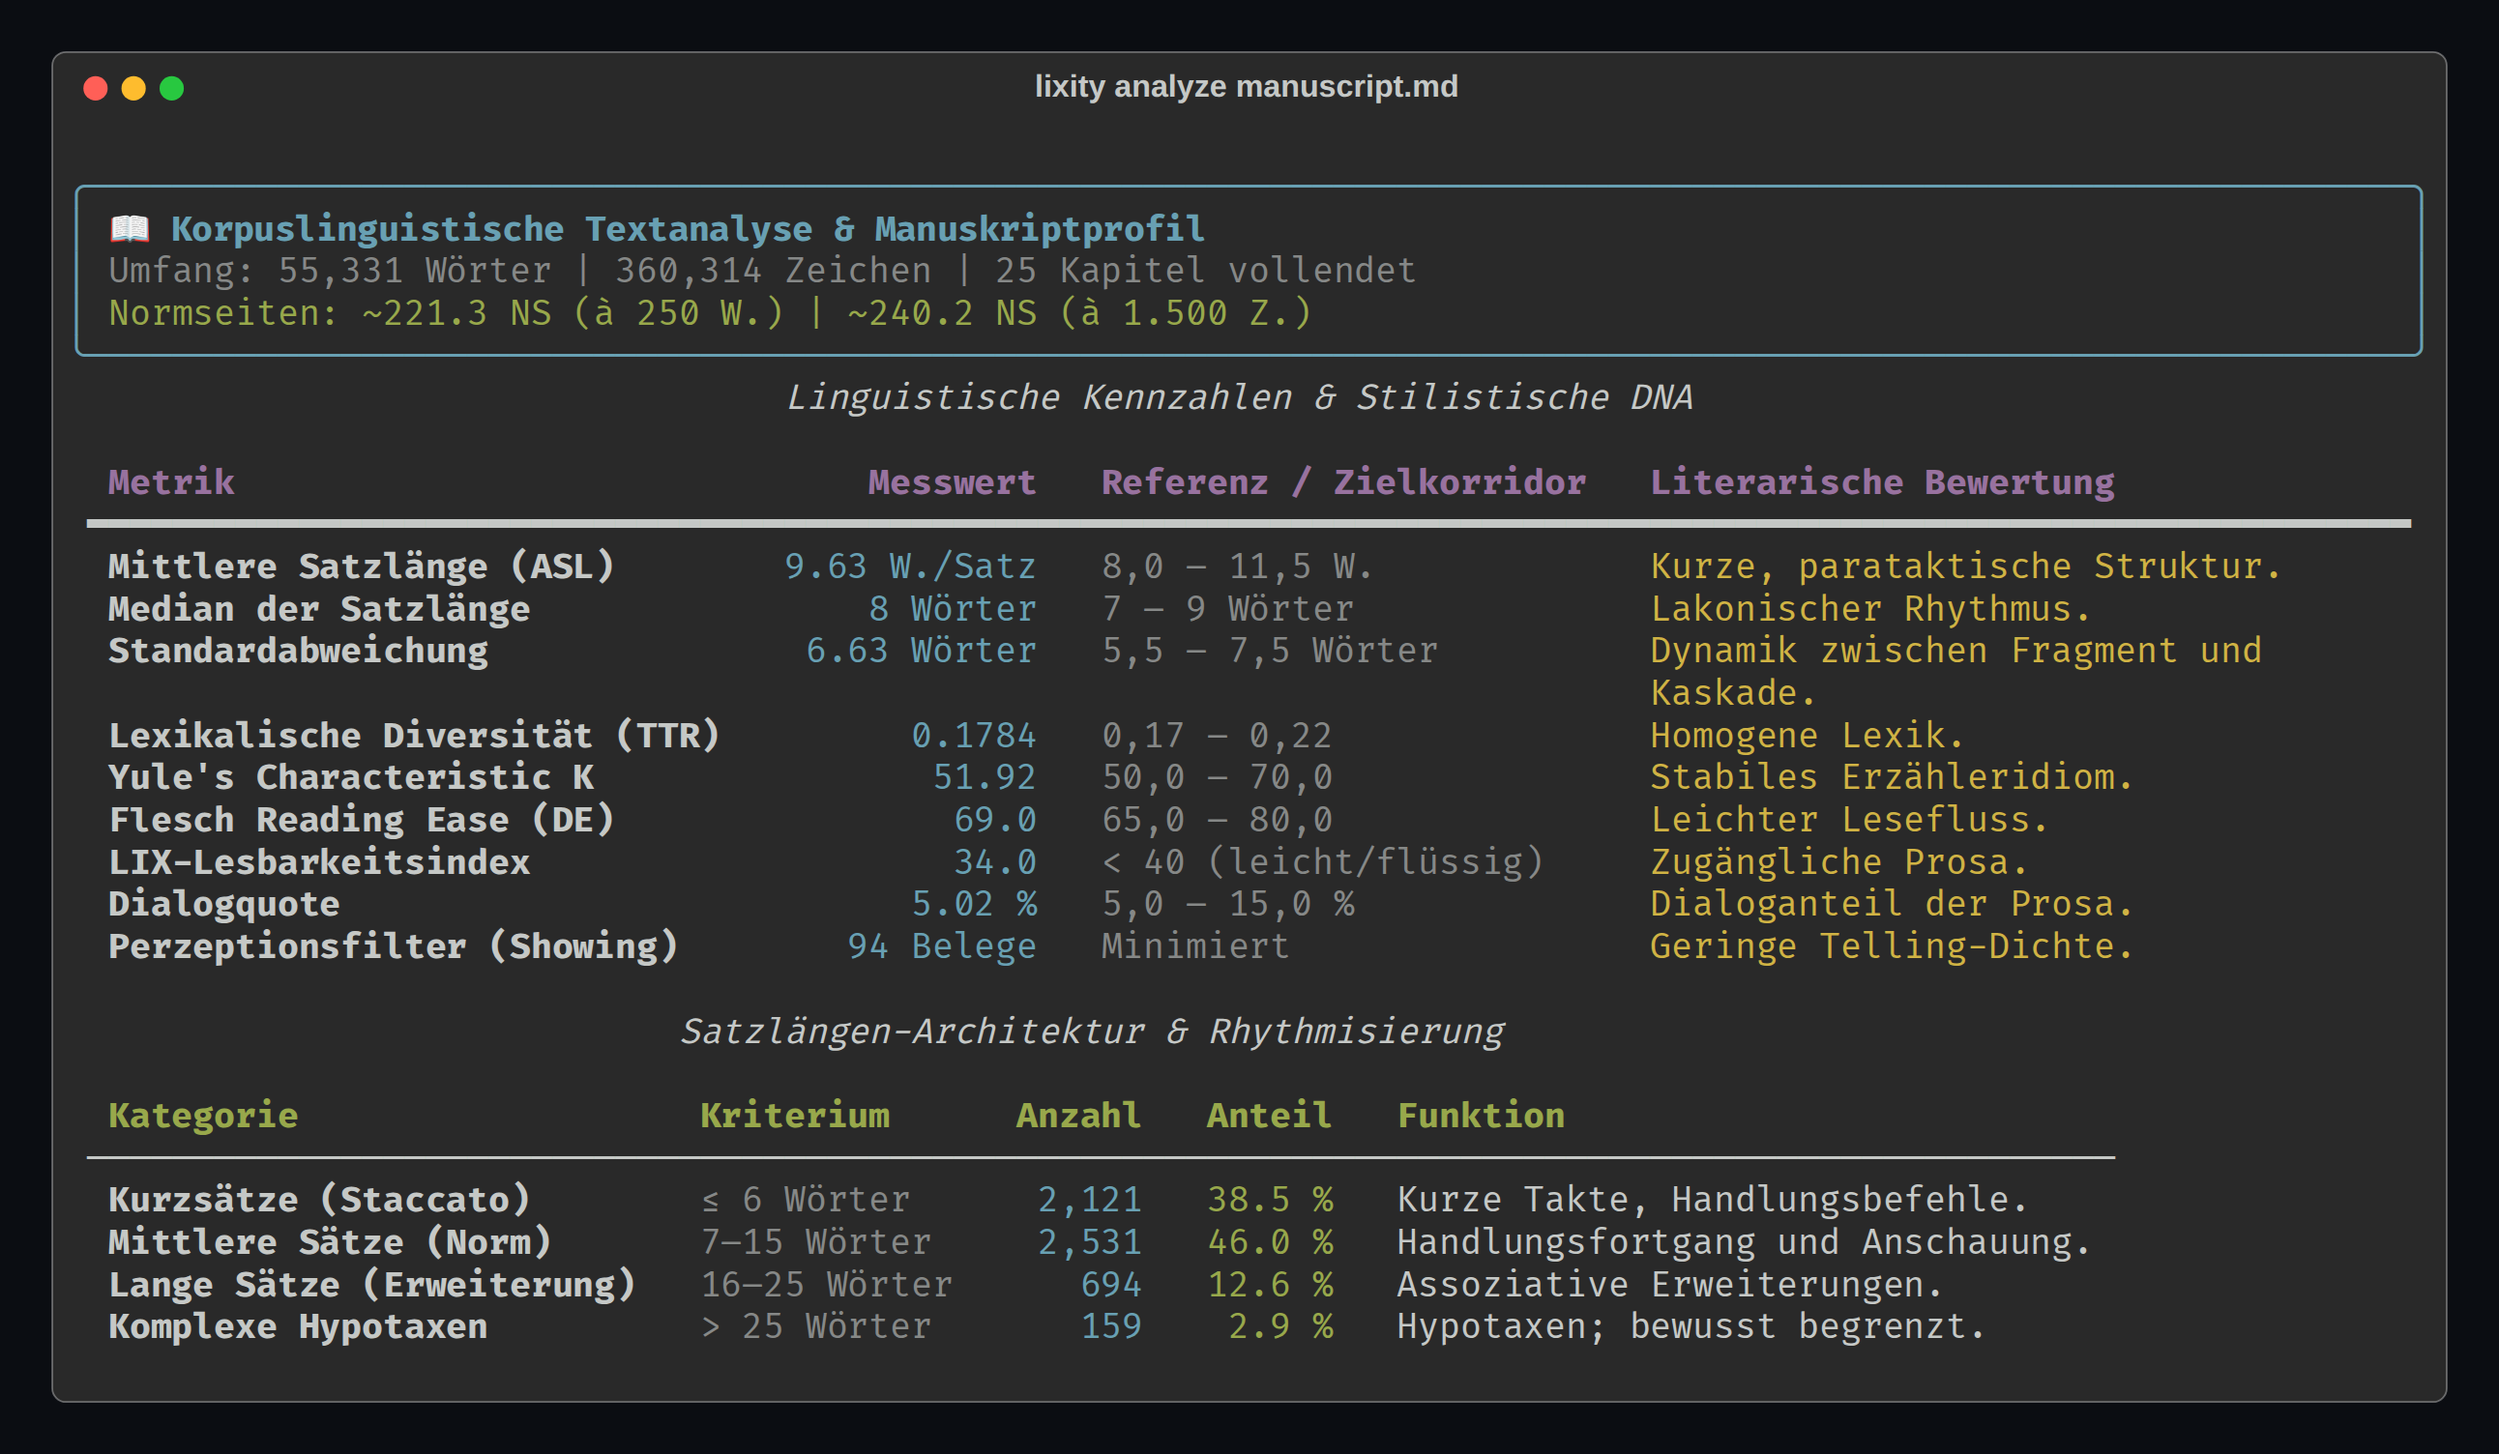
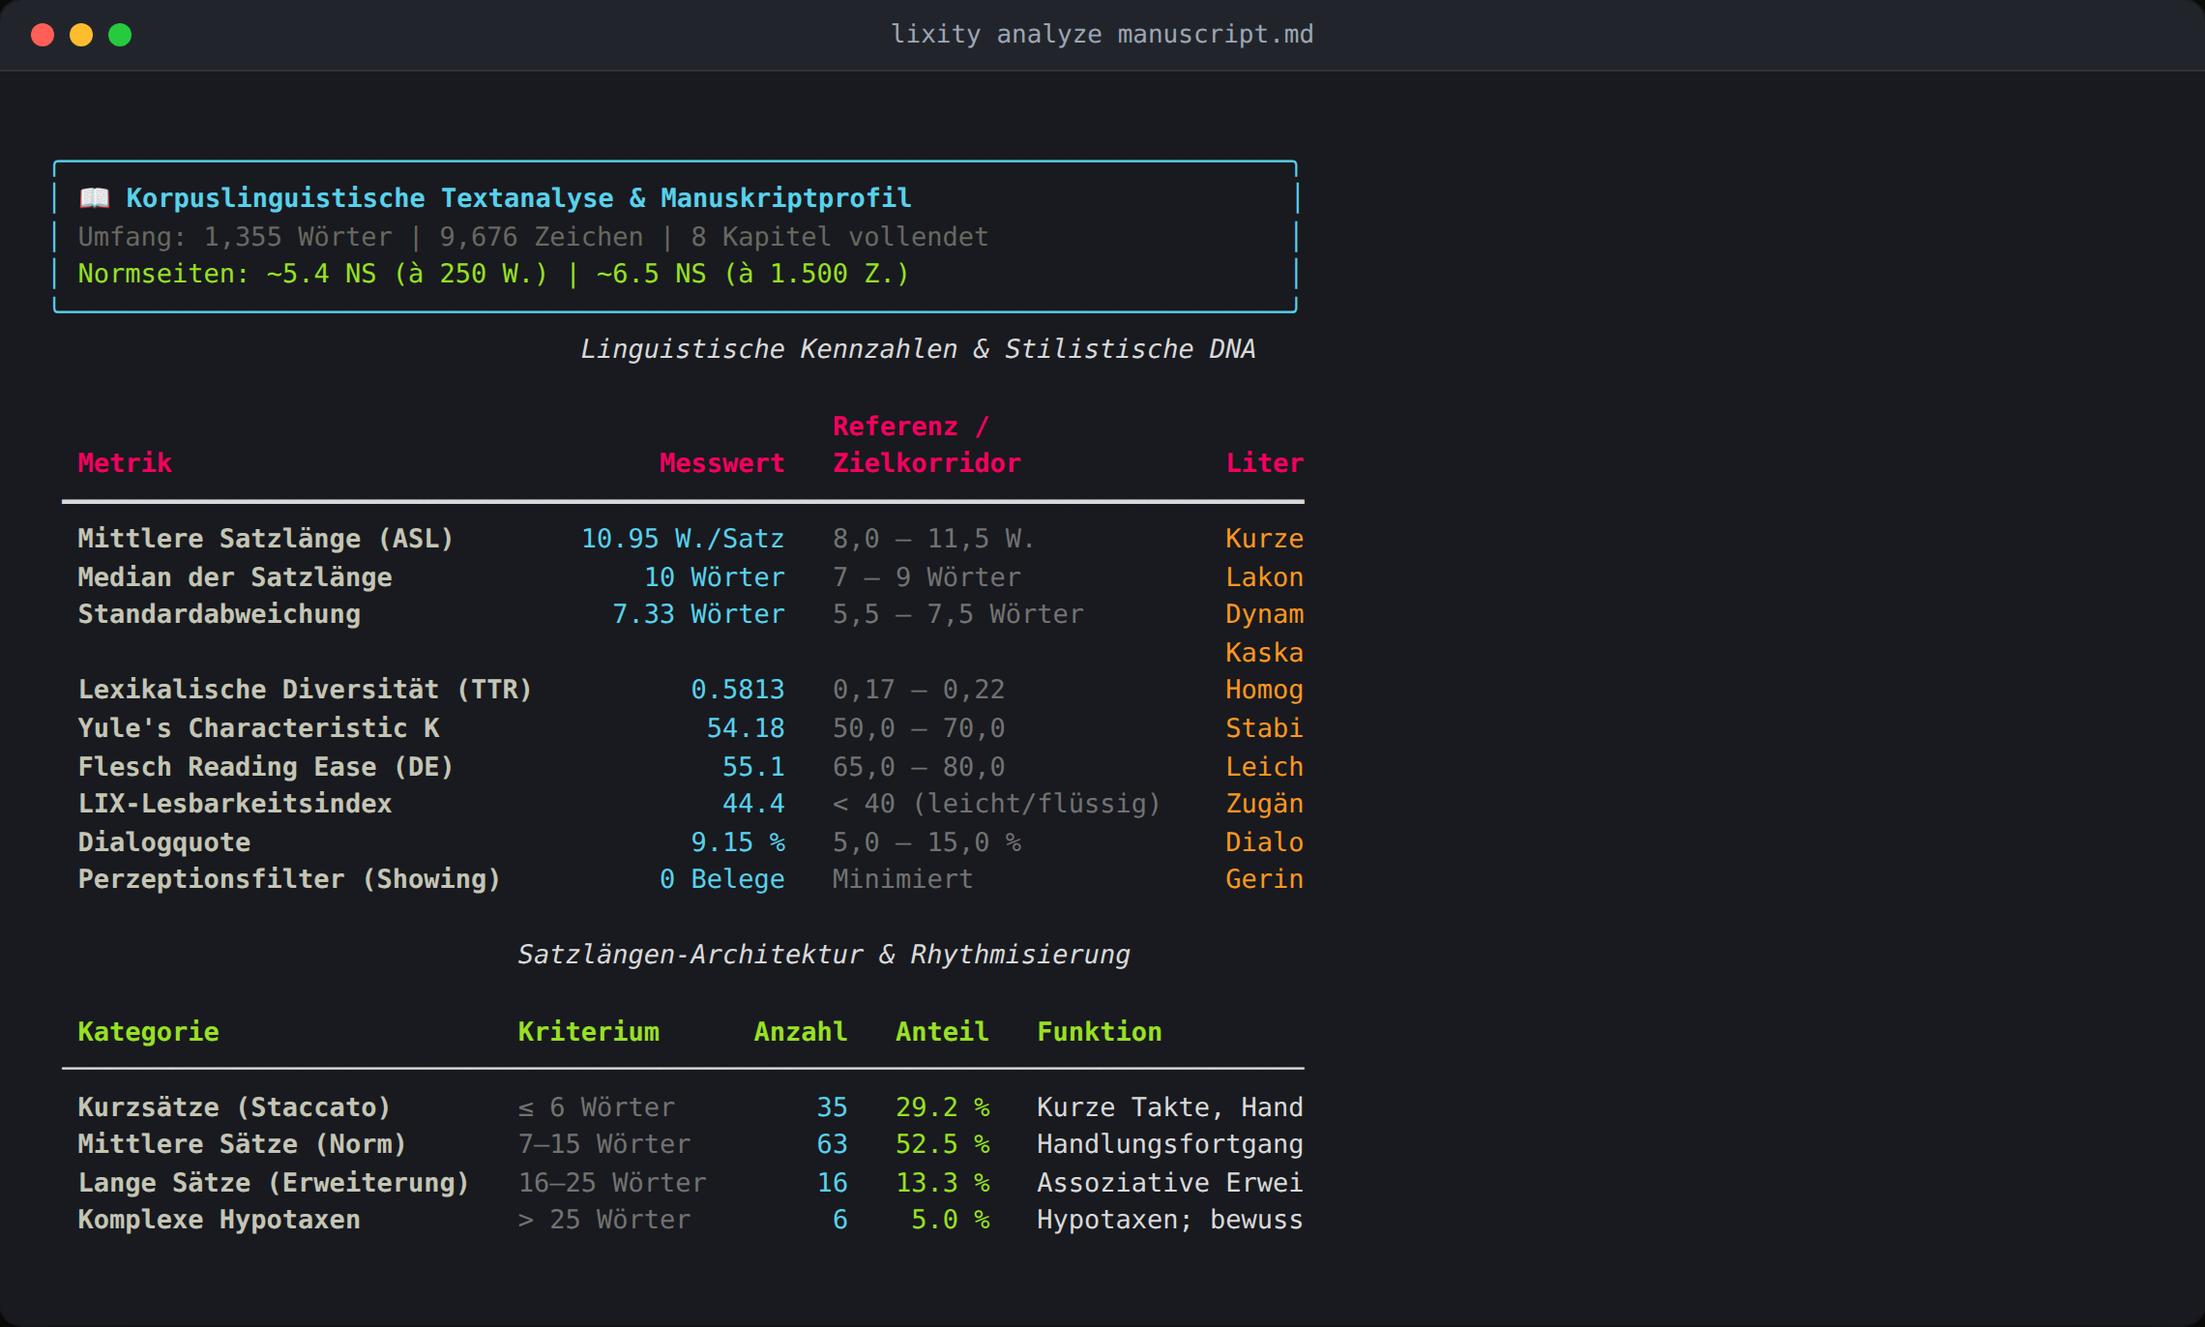
docs & screenshots: sharpen product positioning, add screenshot gallery to GH Pages, fix stray backslash prefix

diff --git a/docs/index.html b/docs/index.html
@@ -1,4 +1,3 @@
-\
 <!DOCTYPE html>
 <html lang="en">
 <head>
@@ -15,9 +14,11 @@
 <meta property="og:title" content="Lixity – Quantitative Text Linguistics &amp; Stylometry for Literary Manuscripts"/>
 <meta property="og:description" content="Self-calibrating style passports, length-invariant lexical diversity, tense profiles, and readability metrics for literary manuscripts – pure Python, offline, 7 languages."/>
 <meta property="og:url" content="https://mfahsold.github.io/lixity/"/>
-<meta name="twitter:card" content="summary"/>
+<meta property="og:image" content="https://mfahsold.github.io/lixity/screenshots/dashboard-light.png"/>
+<meta name="twitter:card" content="summary_large_image"/>
 <meta name="twitter:title" content="Lixity – Quantitative Text Linguistics &amp; Stylometry"/>
 <meta name="twitter:description" content="Self-calibrating style passports, tense profiles, and length-invariant lexical diversity for literary manuscripts."/>
+<meta name="twitter:image" content="https://mfahsold.github.io/lixity/screenshots/dashboard-light.png"/>
 <script type="application/ld+json">
 {
   "@context": "https://schema.org",
@@ -128,6 +129,48 @@ table { width: 100%; border-collapse: collapse; font-size: .9rem; text-align: le
 th, td { padding: .65rem .85rem; border-bottom: 1px solid var(--line); }
 th { font-weight: 600; color: var(--fg); background: var(--accent-light); }
 td:first-child { font-weight: 600; }
+figure.shot {
+  margin: 1.4rem 0;
+  background: var(--surface);
+  border: 1px solid var(--line);
+  border-radius: var(--radius);
+  overflow: hidden;
+  box-shadow: 0 2px 10px rgba(0,0,0,.05);
+}
+figure.shot img {
+  display: block;
+  width: 100%;
+  height: auto;
+  border-bottom: 1px solid var(--line);
+}
+figure.shot figcaption {
+  padding: .6rem 1rem;
+  font-size: .82rem;
+  color: var(--muted);
+}
+.shot-grid {
+  display: grid;
+  grid-template-columns: repeat(auto-fit, minmax(20rem, 1fr));
+  gap: 1rem;
+  margin: 1.2rem 0;
+}
+.shot-grid figure.shot { margin: 0; }
+.theme-note { font-size: .8rem; color: var(--muted); margin: .4rem 0 0; }
+.hero-actions { display: flex; flex-wrap: wrap; gap: .7rem; margin: 1.4rem 0 0; }
+.btn {
+  display: inline-block;
+  padding: .55rem 1.1rem;
+  border-radius: 999px;
+  font-size: .88rem;
+  font-weight: 600;
+  text-decoration: none;
+  border: 1px solid var(--line);
+  background: var(--surface);
+  color: var(--fg);
+}
+.btn:hover { text-decoration: none; border-color: var(--accent); color: var(--accent); }
+.btn.primary { background: var(--accent); border-color: var(--accent); color: #fff; }
+.btn.primary:hover { color: #fff; opacity: .92; }
 details {
   border-bottom: 1px solid var(--line);
   padding: .75rem 0;
@@ -157,7 +200,13 @@ footer {
 <body>
 <main>
   <h1>Lixity</h1>
-  <p class="sub">Quantitative text linguistics, length-invariant stylometry, and a self-calibrating style passport for literary manuscripts. Pure Python, offline, deterministic, seven languages.</p>
+  <p class="sub">An offline text-linguistics engine that measures <em>how a literary manuscript reads</em> &ndash; sentence rhythm, lexical diversity, tense continuity, register signals &ndash; and flags only the passages where a chapter departs from its own established voice.</p>
+
+  <div class="hero-actions">
+    <a class="btn primary" href="https://github.com/mfahsold/lixity">View on GitHub</a>
+    <a class="btn" href="https://github.com/mfahsold/lixity/blob/main/docs/USAGE.md">Usage Guide</a>
+    <a class="btn" href="https://github.com/mfahsold/lixity#quick-start--cli-reference">Quick Start</a>
+  </div>
 
   <div class="pill-row">
     <span>Self-Calibrating Norms</span>
@@ -173,13 +222,40 @@ footer {
     <span>Zero Cloud Dependencies</span>
   </div>
 
-  <div class="card">
-    <h2>Installation</h2>
-    <pre>pip install git+https://github.com/mfahsold/lixity.git</pre>
-    <p class="sub" style="font-size:.85rem; margin:.6rem 0 0;">Requires Python 3.10+; lightweight dependencies: <code>pydantic</code>, <code>rich</code>, <code>orjson</code>.</p>
+  <h2>What It Looks Like</h2>
+  <figure class="shot">
+    <img src="screenshots/dashboard-light.png" alt="Lixity interactive HTML dashboard showing KPI tiles, chapter style map, and tense continuity panels" width="2880" height="2240" loading="eager"/>
+    <figcaption>Interactive single-file HTML dashboard &ndash; KPI overview, chapter map, tense continuity and style panels. Fully self-contained, no external assets.</figcaption>
+  </figure>
+  <div class="shot-grid">
+    <figure class="shot">
+      <img src="screenshots/dashboard-heatmap.png" alt="Diverging z-score heatmap of chapter style deviations" width="2304" height="946" loading="lazy"/>
+      <figcaption>z* deviation heatmap &ndash; significant departures from the manuscript&rsquo;s own house style.</figcaption>
+    </figure>
+    <figure class="shot">
+      <img src="screenshots/dashboard-dimensions.png" alt="Latent style dimension cards with variance and loadings" width="2304" height="786" loading="lazy"/>
+      <figcaption>Unsupervised style dimensions (Spearman &rho; + Jacobi eigendecomposition).</figcaption>
+    </figure>
+    <figure class="shot">
+      <img src="screenshots/dashboard-markers.png" alt="Editor work marker table with status badges" width="2304" height="524" loading="lazy"/>
+      <figcaption>Editor-visible work markers with deterministic content-hash IDs.</figcaption>
+    </figure>
+    <figure class="shot">
+      <img src="screenshots/dashboard-dark.png" alt="Lixity dashboard in dark mode" width="2880" height="2240" loading="lazy"/>
+      <figcaption>Same dashboard in dark mode &ndash; follows the reader&rsquo;s system preference.</figcaption>
+    </figure>
+    <figure class="shot">
+      <img src="screenshots/cli-analyze.png" alt="Lixity CLI analyze command with Rich terminal report" width="2280" height="1372" loading="lazy"/>
+      <figcaption><code>lixity analyze</code> &ndash; Rich terminal report with corpus KPIs.</figcaption>
+    </figure>
+    <figure class="shot">
+      <img src="screenshots/cli-style.png" alt="Lixity CLI style passport output" width="2280" height="1920" loading="lazy"/>
+      <figcaption><code>lixity style</code> &ndash; self-calibrating style passport with bands, z*, FDR.</figcaption>
+    </figure>
   </div>
 
   <h2>Why Lixity?</h2>
+  <p class="sub" style="margin-bottom:1rem;">Unlike grammar checkers or general NLP stacks, Lixity never measures against external norms. The manuscript itself establishes the baseline &ndash; deviations are highlighted only when a chapter departs significantly from its own voice, corrected for sample noise and multiple testing.</p>
   <div class="card" style="padding: 0; overflow: hidden;">
     <div class="table-wrapper" style="margin: 0;">
       <table>
@@ -300,6 +376,12 @@ footer {
       <h3>Style Dimensions</h3>
       <p>Unsupervised discovery of latent stylistic axes via Spearman rank correlation and cyclic Jacobi eigendecomposition.</p>
     </div>
+  </div>
+
+  <div class="card">
+    <h2>Installation</h2>
+    <pre>pip install git+https://github.com/mfahsold/lixity.git</pre>
+    <p class="sub" style="font-size:.85rem; margin:.6rem 0 0;">Requires Python 3.10+; lightweight dependencies: <code>pydantic</code>, <code>rich</code>, <code>orjson</code>.</p>
   </div>
 
   <div class="card">

diff --git a/src/lixity/formatters.py b/src/lixity/formatters.py
@@ -53,28 +53,28 @@ DEFAULT_TEXTE: dict[str, str] = {
     "punct_Auslassungspunkte": "Abreißen des Gedankens.",
     # Rich table 1 – reference & assessment (neutral)
     "t1_asl_ref": "8,0 – 11,5 W.",
-    "t1_asl_note": "Kurze, parataktische Struktur.",
+    "t1_asl_note": "Prägnanter Satzbau.",
     "t1_median_ref": "7 – 9 Wörter",
     "t1_median_note": "Lakonischer Rhythmus.",
     "t1_std_ref": "5,5 – 7,5 Wörter",
-    "t1_std_note": "Dynamik zwischen Fragment und Kaskade.",
+    "t1_std_note": "Dynamische Satzlängen.",
     "t1_ttr_ref": "0,17 – 0,22",
-    "t1_ttr_note": "Homogene Lexik.",
+    "t1_ttr_note": "Homogener Wortschatz.",
     "t1_yules_ref": "50,0 – 70,0",
-    "t1_yules_note": "Stabiles Erzähleridiom.",
+    "t1_yules_note": "Stabiler Wortschatz.",
     "t1_flesch_ref": "65,0 – 80,0",
     "t1_flesch_note": "Leichter Lesefluss.",
-    "t1_lix_ref": "< 40 (leicht/flüssig)",
+    "t1_lix_ref": "< 40 (leicht)",
     "t1_lix_note": "Zugängliche Prosa.",
     "t1_dialog_ref": "5,0 – 15,0 %",
-    "t1_dialog_note": "Dialoganteil der Prosa.",
+    "t1_dialog_note": "Lebendige Dialoge.",
     "t1_filter_ref": "Minimiert",
-    "t1_filter_note": "Geringe Telling-Dichte.",
+    "t1_filter_note": "Minimiertes Telling.",
     # Rich table 2 – dramaturgical function (neutral)
-    "t2_short": "Kurze Takte, Handlungsbefehle.",
-    "t2_medium": "Handlungsfortgang und Anschauung.",
-    "t2_long": "Assoziative Erweiterungen.",
-    "t2_complex": "Hypotaxen; bewusst begrenzt.",
+    "t2_short": "Kurze Takte, Tempo.",
+    "t2_medium": "Fließende Erzählung.",
+    "t2_long": "Assoziative Sätze.",
+    "t2_complex": "Komplexe Gedanken.",
 }
 
 
@@ -121,8 +121,8 @@ class ReportFormatter:
             box=box.SIMPLE_HEAVY,
             header_style="bold magenta",
         )
-        table1.add_column("Metrik", style="bold white")
-        table1.add_column("Messwert", justify="right", style="cyan")
+        table1.add_column("Metrik", style="bold white", no_wrap=True)
+        table1.add_column("Messwert", justify="right", style="cyan", no_wrap=True)
         table1.add_column("Referenz / Zielkorridor", style="dim")
         table1.add_column("Literarische Bewertung", style="yellow")
 
@@ -188,8 +188,8 @@ class ReportFormatter:
             box=box.SIMPLE,
             header_style="bold green",
         )
-        table2.add_column("Kategorie", style="bold white")
-        table2.add_column("Kriterium", style="dim")
+        table2.add_column("Kategorie", style="bold white", no_wrap=True)
+        table2.add_column("Kriterium", style="dim", no_wrap=True)
         table2.add_column("Anzahl", justify="right", style="cyan")
         table2.add_column("Anteil", justify="right", style="green")
         table2.add_column("Funktion")

diff --git a/src/lixity/api.py b/src/lixity/api.py
@@ -103,6 +103,9 @@ def dashboard(
     metrics = CorpusAnalyzer(config).analyze_text(text)
     paragraphs, chapters = ParagraphProfiler(config).profile_blocks(parse_markdown_blocks(text))
     fingerprint = StyleFingerprint.from_metrics(metrics)
+    from .markers import list_markers
+
+    marker_items = list_markers(text)
     return render_dashboard(
         chapters,
         paragraphs,
@@ -111,6 +114,7 @@ def dashboard(
         title=title,
         labels=resolved.labels,
         language_name=resolved.name,
+        markers=marker_items if marker_items else None,
     )
 
 

diff --git a/README.md b/README.md
@@ -1,4 +1,3 @@
-\
 # Lixity
 
 [![tests](https://github.com/mfahsold/lixity/actions/workflows/tests.yml/badge.svg)](https://github.com/mfahsold/lixity/actions)
@@ -6,13 +5,17 @@
 ![License: LNCL-1.0](https://img.shields.io/badge/license-LNCL--1.0-orange)
 ![Dependencies](https://img.shields.io/badge/dependencies-pydantic%20%7C%20rich%20%7C%20orjson-brightgreen)
 
-**Lixity** is a dependency-light, multilingual text-linguistics engine and stylometric toolkit designed for literary manuscripts, fiction editors, digital humanities scholars, and autonomous AI coding agents. It unifies quantitative text linguistics, length-invariant lexical diversity, paragraph-accurate tense profiling, and a **self-calibrating style passport** into a single, deterministic CLI and Python API.
+**Lixity** is an offline text-linguistics engine that measures *how a literary manuscript reads* – sentence rhythm, lexical diversity, tense continuity, register signals – and flags only the passages where a chapter departs from its own established voice.
 
-The engine runs entirely offline with zero cloud dependencies, pure standard library core algorithms, and three robust production libraries (`pydantic>=2.0`, `rich>=13.0`, `orjson>=3.9`).
+Unlike grammar checkers or general NLP stacks, Lixity never measures against external norms. It derives a **self-calibrating style passport** from the manuscript itself (robust median/MAD house style), shrinks noisy observations from short chapters ($z^*$), and controls false discoveries across all chapter×feature cells (Benjamini-Hochberg FDR). The result is macro-editing evidence, not style dogma.
+
+Built for fiction authors, literary editors and translators, digital humanities researchers, and autonomous AI agents that need deterministic, auditable text analytics. Pure Python, zero cloud calls, three dependencies (`pydantic`, `rich`, `orjson`), seven native language profiles.
 
 The name represents the mathematical foundation of its analysis: **T**TR (Type-Token Ratio), **Y**ule's characteristic $K$, and **LIX** (Läsbarhetsindex).
 
 ![Lixity CLI analysis report](docs/screenshots/cli-analyze.png)
+
+![Lixity interactive HTML dashboard](docs/screenshots/dashboard-light.png)
 
 ---
 
@@ -183,12 +186,17 @@ lixity style manuscript.md
 lixity style manuscript.md --json
 ```
 
+![Lixity CLI style passport](docs/screenshots/cli-style.png)
+
 ### 4. Interactive Single-File HTML Dashboard
 Generates a zero-dependency HTML dashboard with an interactive chapter map, diverging z-score heatmap, and work marker controls.
 
 ```bash
 lixity dashboard manuscript.md -o exports/dashboard.html
 ```
+
+![Lixity dashboard heatmap](docs/screenshots/dashboard-heatmap.png)
+![Lixity style dimensions](docs/screenshots/dashboard-dimensions.png)
 
 ### 5. Introspection & Shell Completion
 
@@ -249,6 +257,8 @@ Lixity bridges the gap between statistical analysis and editorial text editing t
 - **Invisible in Exports:** Markdown renderers (Pandoc, CommonMark, Typst, LaTeX) treat HTML comments as invisible comments; they never appear in printed books or EPUBs.
 - **Idempotent IDs:** Marker IDs are deterministic content hashes derived from anchor text and line position. Markers stay anchored when text above or below is edited.
 - **Interactive Control:** Markers can be added or resolved directly from the Lixity dashboard when running the local UI server.
+
+![Lixity work markers](docs/screenshots/dashboard-markers.png)
 
 ---
 
